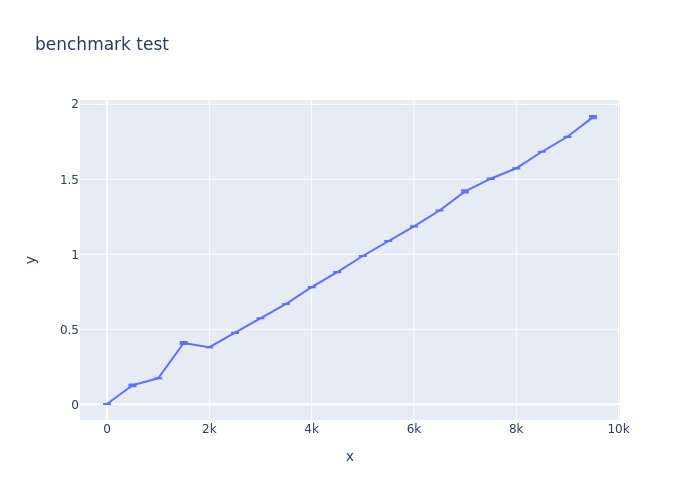
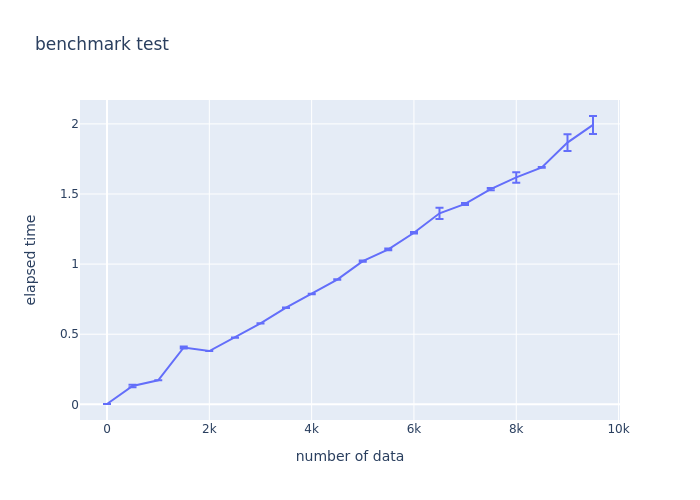
modify the details

diff --git a/benchmark/benchmark.py b/benchmark/benchmark.py
@@ -11,7 +11,7 @@ import hydra
 from omegaconf import DictConfig, OmegaConf
 import requests
 
-from config import DB_PATH, FIG_PATH
+from config import DB_PATH, FIG_PATH, FIG_ROOT
 from src.register_pr import PullRequest 
 
 
@@ -91,11 +91,11 @@ class Visualizer:
                     )
                 )
             )
-        fig.update_xaxes(title='x')
-        fig.update_yaxes(title='y')
+        fig.update_xaxes(title='number of data')
+        fig.update_yaxes(title='elapsed time')
         fig.update_layout(title=title)
 
-        makedirs(FIGS_ROOT, exist_ok=True)
+        makedirs(FIG_ROOT, exist_ok=True)
         fig_path = FIG_PATH.format(FIG_NAME=title)
         fig.write_image(fig_path)
 

diff --git a/config/__init__.py b/config/__init__.py
@@ -1,1 +1,1 @@
-from config.const import DB_PATH, LOG_PATH, FIG_PATH
+from config.const import DB_PATH, LOG_PATH, FIG_PATH, FIG_ROOT
